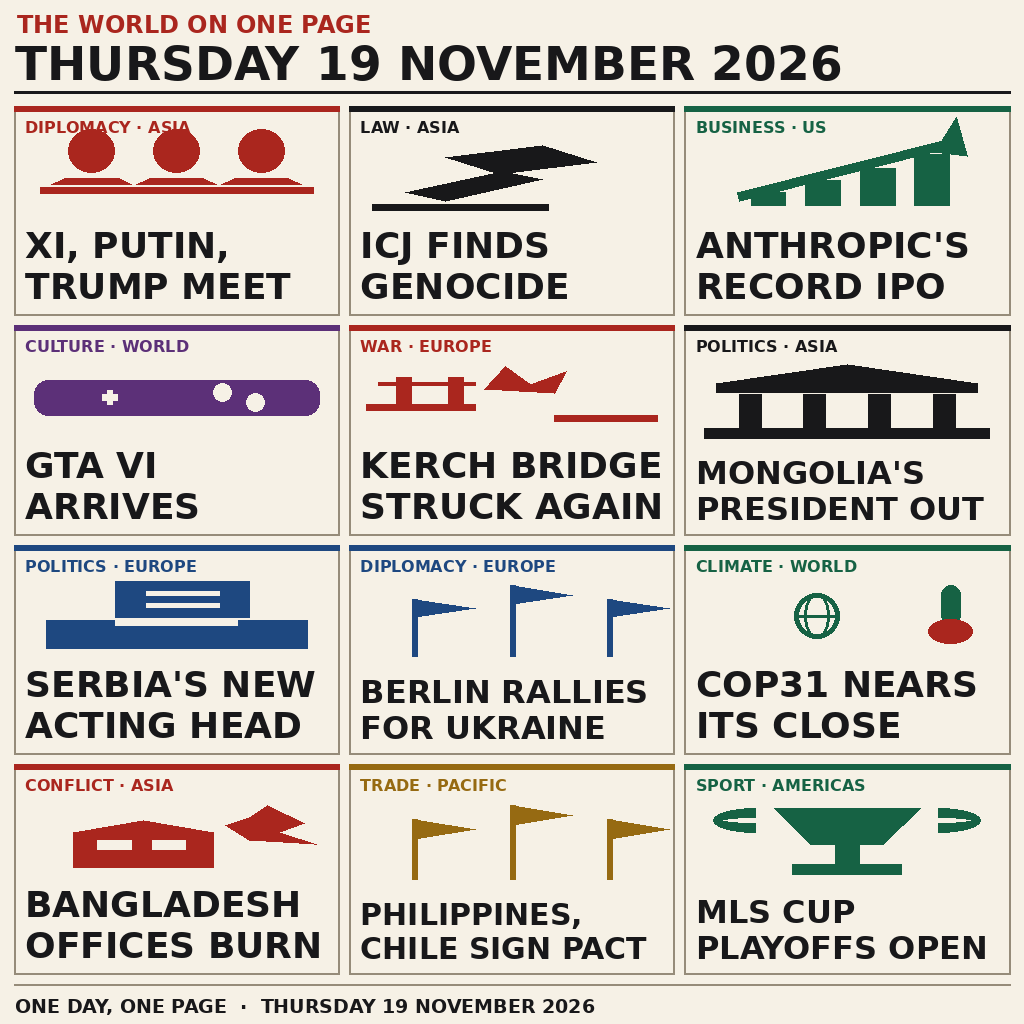
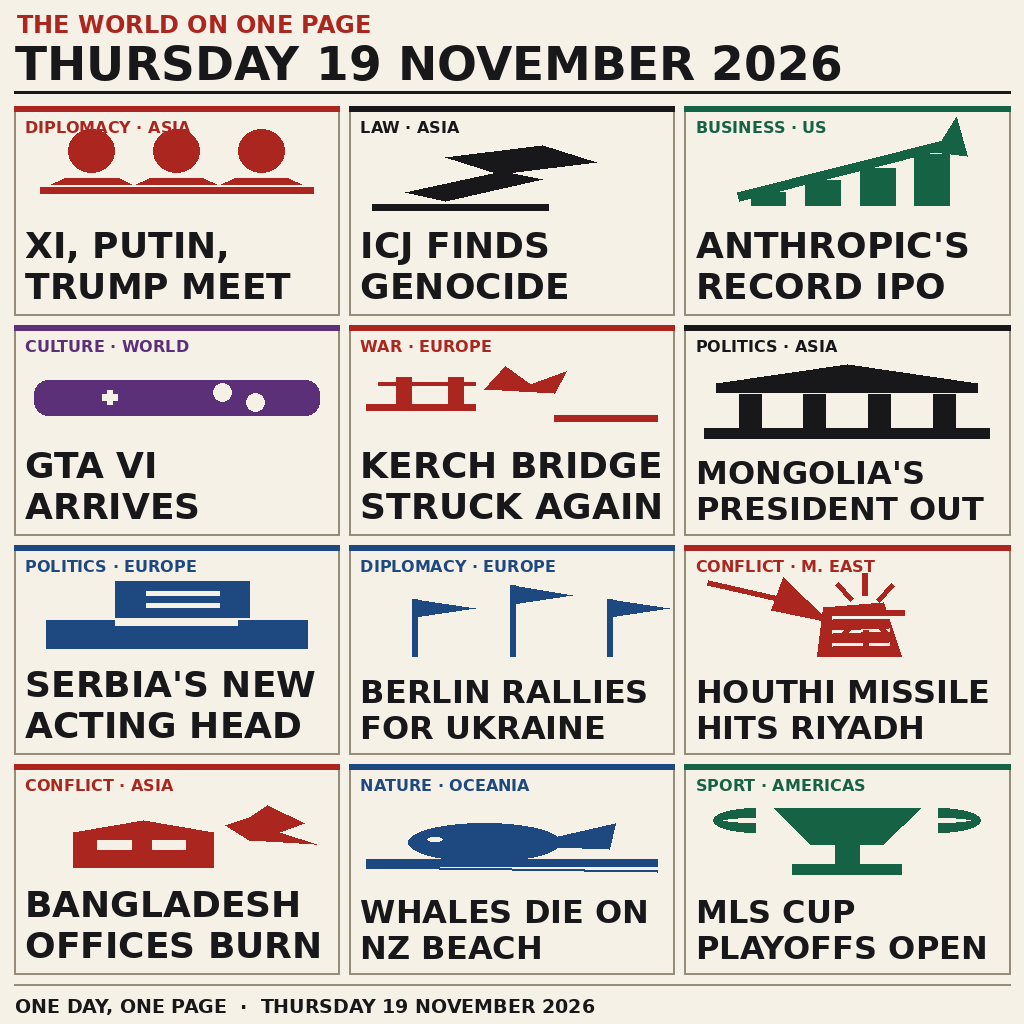
Widen the page to five regions
Swap the vague COP31 panel and the trade panel for two stories verified
on 19 November: the Houthi missile that damaged Riyadh's Public Investment
Fund Tower, and the nineteen sperm whales stranded at Ninety Mile Beach in
New Zealand. The page now spans Asia, Europe, the Middle East, Oceania and
the Americas.

Changed region(s): [[0.3438, 0.7188, 0.6562, 0.9375], [0.6562, 0.5312, 1.0, 0.7188]]

diff --git a/tools/make_image.py b/tools/make_image.py
@@ -5,6 +5,8 @@ Labels are set large so the page still reads when it is shown small, roughly
 300 pixels across. Output is deterministic: the same code writes the same bytes.
 """
 
+import math
+
 from PIL import Image, ImageDraw, ImageFont
 
 SIZE = 1024
@@ -136,6 +138,42 @@ def _icon_flags(d, box, color):
                    (px, y0 + h * (ph + 0.22))], fill=color)
 
 
+def _icon_missile(d, box, color):
+    """A missile falling on a tower: the Houthi strike on Riyadh."""
+    x0, y0, x1, y1 = box
+    w, h = x1 - x0, y1 - y0
+    d.polygon([(x0 + w * 0.42, y0 + h * 0.34), (x0 + w * 0.62, y0 + h * 0.28),
+               (x0 + w * 0.68, y0 + h * 0.92), (x0 + w * 0.40, y0 + h * 0.92)], fill=color)
+    for wy in (0.46, 0.62, 0.78):
+        d.line([(x0 + w * 0.45, y0 + h * wy), (x0 + w * 0.64, y0 + h * (wy - 0.02))],
+               fill=PAPER, width=max(4, int(h * 0.030)))
+    d.line([(x0 + w * 0.04, y0 + h * 0.04), (x0 + w * 0.30, y0 + h * 0.26)],
+           fill=color, width=max(4, int(w * 0.022)))
+    mx, my = x0 + w * 0.34, y0 + h * 0.30
+    s = w * 0.10
+    d.polygon([(mx + s, my + s * 0.6), (mx - s * 0.5, my - s * 0.9),
+               (mx - s * 0.9, my + s * 0.2)], fill=RED)
+    bx, by, r = x0 + w * 0.56, y0 + h * 0.40, w * 0.13
+    for ang in range(0, 360, 45):
+        a = math.radians(ang)
+        d.line([(bx + r * 0.45 * math.cos(a), by + r * 0.45 * math.sin(a)),
+                (bx + r * math.cos(a), by + r * math.sin(a))],
+               fill=RED, width=max(4, int(w * 0.020)))
+
+
+def _icon_whale(d, box, color):
+    """A stranded whale on a beach: New Zealand's Ninety Mile Beach."""
+    x0, y0, x1, y1 = box
+    w, h = x1 - x0, y1 - y0
+    d.rectangle([x0 + w * 0.02, y0 + h * 0.72, x1 - w * 0.02, y0 + h * 0.80], fill=color)
+    d.line([(x0 + w * 0.02, y0 + h * 0.82), (x1 - w * 0.02, y0 + h * 0.86)],
+           fill=color, width=max(3, int(h * 0.020)))
+    d.ellipse([x0 + w * 0.16, y0 + h * 0.30, x0 + w * 0.66, y0 + h * 0.74], fill=color)
+    d.polygon([(x0 + w * 0.64, y0 + h * 0.46), (x0 + w * 0.84, y0 + h * 0.30),
+               (x0 + w * 0.82, y0 + h * 0.60), (x0 + w * 0.64, y0 + h * 0.58)], fill=color)
+    d.ellipse([x0 + w * 0.22, y0 + h * 0.46, x0 + w * 0.27, y0 + h * 0.51], fill=PAPER)
+
+
 def _icon_earth(d, box, color):
     x0, y0, x1, y1 = box
     w, h = x1 - x0, y1 - y0
@@ -201,9 +239,9 @@ PANELS = [
     ("POLITICS \u00b7 ASIA", "MONGOLIA'S\nPRESIDENT OUT", _icon_parliament, INK),
     ("POLITICS \u00b7 EUROPE", "SERBIA'S NEW\nACTING HEAD", _icon_ballot, BLUE),
     ("DIPLOMACY \u00b7 EUROPE", "BERLIN RALLIES\nFOR UKRAINE", _icon_flags, BLUE),
-    ("CLIMATE \u00b7 WORLD", "COP31 NEARS\nITS CLOSE", _icon_earth, GREEN),
+    ("CONFLICT \u00b7 M. EAST", "HOUTHI MISSILE\nHITS RIYADH", _icon_missile, RED),
     ("CONFLICT \u00b7 ASIA", "BANGLADESH\nOFFICES BURN", _icon_fire, RED),
-    ("TRADE \u00b7 PACIFIC", "PHILIPPINES,\nCHILE SIGN PACT", _icon_flags, GOLD),
+    ("NATURE \u00b7 OCEANIA", "WHALES DIE ON\nNZ BEACH", _icon_whale, BLUE),
     ("SPORT \u00b7 AMERICAS", "MLS CUP\nPLAYOFFS OPEN", _icon_trophy, GREEN),
 ]
 

diff --git a/README.md b/README.md
@@ -22,9 +22,9 @@ harness output directory. The image is drawn by `tools/make_image.py`.
 | MONGOLIA'S PRESIDENT OUT | State Great Khural accepts President Khürelsükh's resignation |
 | SERBIA'S NEW ACTING HEAD | Aleksandar Čupić elected speaker, becoming acting president |
 | BERLIN RALLIES FOR UKRAINE | Germany hosts dozens of countries on aid for Ukraine |
-| COP31 NEARS ITS CLOSE | COP31 in Antalya, Turkey, enters its final days |
+| HOUTHI MISSILE HITS RIYADH | A Houthi missile damages the Public Investment Fund Tower in Riyadh; no casualties |
 | BANGLADESH OFFICES BURN | Awami League mobs loot and burn BNP and Jamaat property across several districts |
-| PHILIPPINES, CHILE SIGN PACT | First Philippine free-trade agreement with a Latin American country, signed at APEC |
+| WHALES DIE ON NZ BEACH | Nineteen sperm whales die after stranding at Ninety Mile Beach |
 | MLS CUP PLAYOFFS OPEN | Wild-card round begins with Orlando City and Seattle Sounders at home |
 
 ## Run
